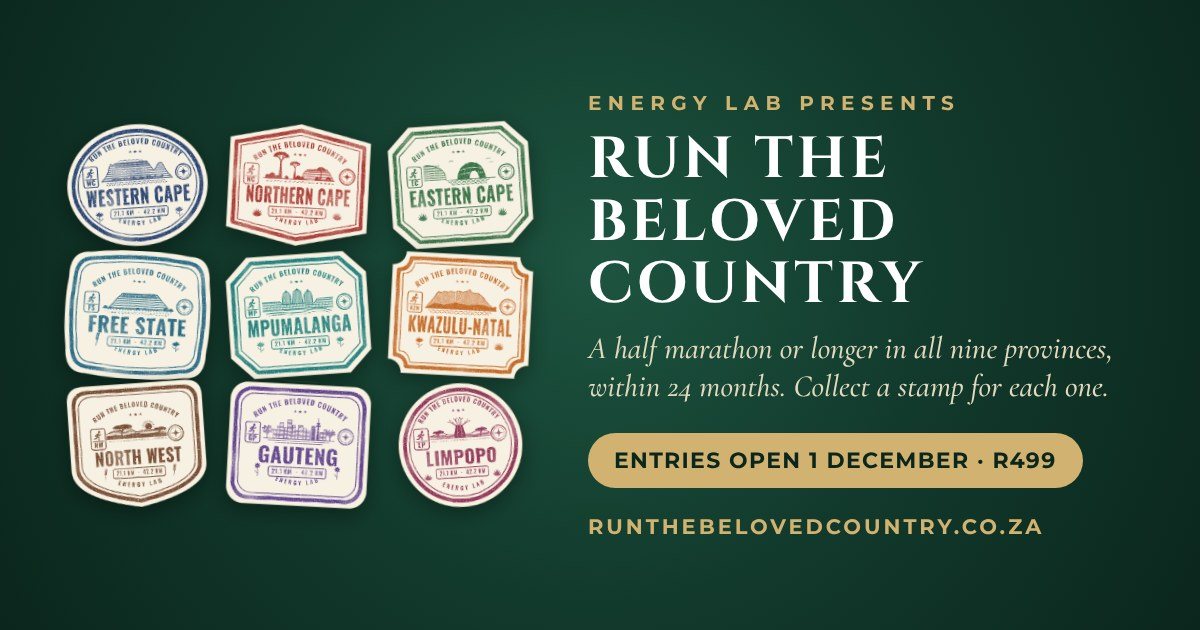
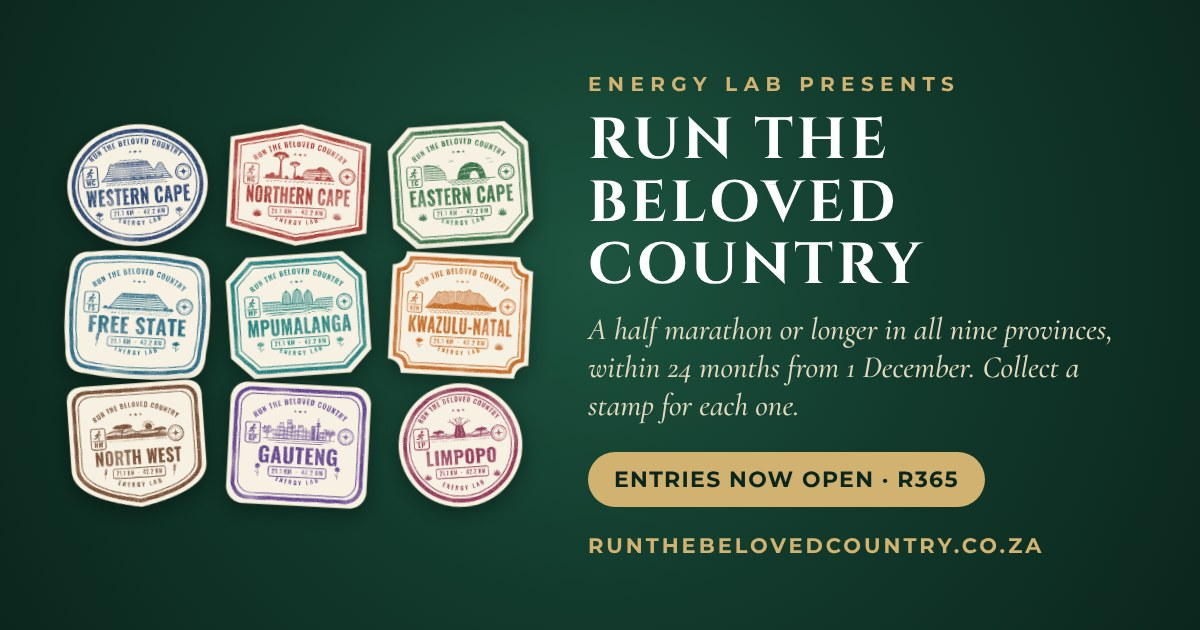
Open entries early (passports valid from 1 Dec 2026) (#10)
* Open entries early; passports bought before launch are dated 1 Dec 2026

- rtbc_activate_passport: issued_at = greatest(now(), 1 Dec 2026 SAST), expiry
  24 months from that. Drives the identity page, expiry and the proof form's
  earliest race date. Existing passports unchanged.
- Site: 'Enter now' replaces 'Register interest' as the main button; FAQ,
  Terms 3.3 and Rules explain the 1 December start; interest form becomes
  'Get Challenge news'
- Entry page: note for early entrants (shown only before launch)

Claude-Session: https://claude.ai/code/session_014kwbh6nvEBk41pb5qy1hRH

* Launch date at midnight UTC so the date reads 1 Dec everywhere

Claude-Session: https://claude.ai/code/session_014kwbh6nvEBk41pb5qy1hRH

* Link preview image: entries now open

Claude-Session: https://claude.ai/code/session_014kwbh6nvEBk41pb5qy1hRH

* Entry fee R365 (was R499)

Site, Terms 4.1, Rules, Privacy wording, Meta Pixel purchase value and the
link preview image. The checkout amount comes from RTBC_ENTRY_FEE_CENTS.

Claude-Session: https://claude.ai/code/session_014kwbh6nvEBk41pb5qy1hRH

---------

Changed region(s): [[0.4933, 0.5127, 0.925, 0.9048], [0.4933, 0.1206, 0.8017, 0.4825]]

diff --git a/landing/index.html b/landing/index.html
@@ -10,7 +10,7 @@
 <meta property="og:image" content="https://runthebelovedcountry.co.za/img/og.jpg">
 <meta property="og:image:width" content="1200">
 <meta property="og:image:height" content="630">
-<meta property="og:image:alt" content="The nine Run the Beloved Country province stamps. Entries open 1 December, R499.">
+<meta property="og:image:alt" content="The nine Run the Beloved Country province stamps. Entries open now, R365.">
 <meta property="og:url" content="https://runthebelovedcountry.co.za/">
 <meta name="twitter:card" content="summary_large_image">
 <meta property="og:type" content="website">
@@ -239,7 +239,7 @@ footer p { max-width: 60ch; }
       <li><a href="#faq">FAQ</a></li>
     </ul>
     <a class="btn btn-ghost" href="/app/">Sign in</a>
-    <a class="btn btn-solid" href="#register">Register interest</a>
+    <a class="btn btn-solid" href="/app/enter">Enter now</a>
   </div>
 </nav>
 
@@ -251,9 +251,10 @@ footer p { max-width: 60ch; }
     <p class="strap">9 Provinces. 9 Races. One Beloved Country.</p>
     <p class="sub">Run one officially timed half marathon or marathon in every province of South Africa, and collect each province’s stamp in your own race passport.</p>
     <div class="ctas">
-      <a class="btn btn-solid" href="#register">Register your interest</a>
+      <a class="btn btn-solid" href="/app/enter">Enter now · R365</a>
       <a class="btn btn-ghost" href="#how">How it works</a>
     </div>
+    <p class="sub" style="margin-top:14px;font-size:15px">Entries are open. Passports are valid from 1 December 2026: enter early and your 24 months start on launch day.</p>
     <div class="stores"><a class="store-badge " href="https://apps.apple.com/app/id6835716723" target="_blank" rel="noopener"><img src="img/app-store-badge.svg" alt="Download Running Passport on the App Store" width="144" height="48"></a><span class="store-badge soon" role="img" aria-label="Google Play: coming soon"><img src="img/google-play-badge.png" alt="" width="161" height="48"><small>Coming soon</small></span></div>
     <a class="beta-link" href="#beta">On Android? Become a beta tester</a>
     <img class="shot" src="img/hero.png" alt="The race passport: green cover beside an open spread with the Western Cape and Eastern Cape stamps applied" width="1600" height="843">
@@ -389,12 +390,12 @@ footer p { max-width: 60ch; }
       <div class="faq">
         <details><summary>Which races count?</summary><p>Any officially timed road half marathon (21.1 km), marathon (42.2 km) or road ultra held in the province, organised by any club or organiser. You choose the races. Trail races, virtual races and shorter distances don’t count.</p></details>
         <details><summary>Can I mix half marathons and marathons?</summary><p>Yes. Any mix of 21.1 and 42.2 km races counts, in any order.</p></details>
-        <details><summary>How long do I have?</summary><p>24 months from the date your passport is issued.</p></details>
+        <details><summary>How long do I have?</summary><p>24 months from the date your passport is issued. If you enter before 1 December 2026, your passport is dated 1 December 2026, so your 24 months start then.</p></details>
         <details><summary>Does my entry include race entries or travel?</summary><p>No. You enter each race directly with its organiser and arrange your own travel and accommodation. Your challenge entry covers your digital passport, result verification and, when you finish, your printed finisher passport.</p></details>
         <details><summary>Does part of my entry go to charity?</summary><p>Yes. R50 of every entry goes to our charity partner, the <a href="https://legacycenter.co.za/" target="_blank" rel="noopener">Binah Legacy Center</a>.</p></details>
         <details><summary>How are results verified?</summary><p>You add your official race result in the app, with a results link or finisher certificate. Once it is checked against the official results, usually within 7 days, that province’s stamp unlocks.</p></details>
         <details><summary>Is the race passport a real passport?</summary><p>No. It is an Energy Lab running challenge collectible, not an official travel or identity document.</p></details>
-        <details><summary>When can I enter?</summary><p>Entries open soon. Register your interest below and we’ll let you know first.</p></details>
+        <details><summary>When can I enter?</summary><p>Right now. <a href="/app/enter">Enter here</a>. Passports are valid from 1 December 2026, so races from that date count, and anyone who enters before then has a passport dated 1 December 2026.</p></details>
       </div>
     </div>
   </section>
@@ -402,9 +403,9 @@ footer p { max-width: 60ch; }
   <section class="cream" id="register">
     <div class="wrap register">
       <div class="head" style="margin: 0">
-        <span class="eyebrow">Be the first to know</span>
-        <h2>Register your interest</h2>
-        <p>Leave your details and we’ll email you when entries open. No payment, no commitment.</p>
+        <span class="eyebrow">Not ready to enter yet?</span>
+        <h2>Get Challenge news</h2>
+        <p>Leave your details and we’ll keep you posted on race news and partner offers. No payment, no commitment. Ready now? <a href="/app/enter">Enter here</a>.</p>
       </div>
       <form id='interest-form' method='POST' name='rtbc-interest' data-netlify='true' netlify-honeypot='bot-field'>
         <input type="hidden" name="form-name" value="rtbc-interest">
@@ -429,7 +430,7 @@ footer p { max-width: 60ch; }
           </label>
         </div>
         <label class="check" for="f-consent"><input id="f-consent" name="consent" type="checkbox" value="yes" required>I agree that Energy Lab Athletic Company may email me about Run the Beloved Country. I can unsubscribe at any time.</label>
-        <button class="btn btn-solid" type="submit" id="f-submit">Register interest</button>
+        <button class="btn btn-solid" type="submit" id="f-submit">Keep me posted</button>
         <p class="form-msg" id="form-msg" role="status" aria-live="polite"></p>
       </form>
     </div>
@@ -469,7 +470,7 @@ footer p { max-width: 60ch; }
         if (!r.ok) throw new Error(r.status);
         form.reset();
         msg.className = 'form-msg ok';
-        msg.textContent = 'Thanks, you’re on the list. We’ll email you when entries open.';
+        msg.textContent = 'Thanks, you’re on the list. We’ll keep you posted.';
       })
       .catch(function () {
         msg.className = 'form-msg err';

diff --git a/landing/terms/index.html b/landing/terms/index.html
@@ -63,14 +63,14 @@ footer a { color: var(--gold); }
     <h2>3. Challenge rules</h2>
     <p>3.1 <strong>Goal.</strong> To complete the Challenge you must finish one qualifying race in each of South Africa’s nine provinces within your Challenge Window.</p>
     <p>3.2 <strong>Qualifying race.</strong> An officially timed road race of 21.1 km (half marathon), 42.2 km (marathon) or longer (road ultra-marathon), organised by any race organiser and run on or after the date your passport is issued. Trail races, virtual races, time trials and races shorter than 21.1 km do not qualify. A race counts for the province it is listed under on RunningCalendar.co.za, as shown in the race finder. A race not listed there counts for the province of its official start venue. Races outside South Africa do not qualify.</p>
-    <p>3.3 <strong>Challenge Window.</strong> 24 months from the date your passport is issued, as shown in your passport. You may extend your Challenge Window once, by up to six months. The extension is free if injury or illness stops you finishing in time, supported by a note from a medical practitioner; otherwise it costs R250.</p>
+    <p>3.3 <strong>Challenge Window.</strong> 24 months from the date your passport is issued, as shown in your passport. Entries made before 1 December 2026 are issued with that date, so their Challenge Window, and the races that count, start on 1 December 2026. You may extend your Challenge Window once, by up to six months. The extension is free if injury or illness stops you finishing in time, supported by a note from a medical practitioner; otherwise it costs R250.</p>
     <p>3.4 <strong>Verification.</strong> For each province you must complete the proof form on the website or in the Running Passport app (race, date, distance and finish time) and provide proof of your finish, being a link to the official race results or an official finisher certificate, within 30 days of the race. Results recorded only on a GPS watch or app are not accepted. Each province counts once, and our decision on whether a result qualifies is final, subject to clause 12. We check each submission against the race listing and your proof, partly with automated checks. Submissions that match are approved automatically; any that do not are reviewed by a person, and no result is rejected without a person reviewing it. We aim to complete checks within 7 days.</p>
     <p>3.5 <strong>Stamps.</strong> Your passport is digital. Each province stamp appears in it once that province is verified, and your finisher stamp appears when all nine are verified.</p>
     <p>3.6 <strong>Fair play.</strong> Running for someone else, submitting false results or altering a result will lead to disqualification from the Challenge without a refund.</p>
     <p>3.7 <strong>Cancelled or changed races.</strong> If a race is cancelled, or shortened by its organiser for any reason, it does not count, and you will need to run another qualifying race in that province.</p>
 
     <h2>4. Fees, payment, cancellation and transfers</h2>
-    <p>4.1 <strong>Entry fee.</strong> The entry fee is R499, including delivery of your printed finisher passport within South Africa. All prices are in rand. Energy Lab is not registered for VAT, so no VAT is charged. R50 of every entry fee is donated to our charity partner, the Binah Legacy Center.</p>
+    <p>4.1 <strong>Entry fee.</strong> The entry fee is R365, including delivery of your printed finisher passport within South Africa. All prices are in rand. Energy Lab is not registered for VAT, so no VAT is charged. R50 of every entry fee is donated to our charity partner, the Binah Legacy Center.</p>
     <p>4.2 <strong>What the fee covers.</strong> Your numbered digital race passport, result verification for all nine provinces, use of the Running Passport app and, if you finish, your printed finisher passport. It does <strong>not</strong> cover race entry fees, travel, accommodation, licences or anything you need to take part in a race.</p>
     <p>4.3 <strong>Payment.</strong> Payment is made online through PayFast. Your entry is confirmed, and your passport issued, as soon as PayFast confirms your payment.</p>
     <p>4.4 <strong>Cooling-off.</strong> You may cancel your entry without giving a reason within 7 days of entering, under section 44 of the Electronic Communications and Transactions Act. Email <a href="mailto:support@energylabapp.co.za">support@energylabapp.co.za</a> and we will refund the entry fee in full within 30 days. Once you have submitted a result for verification, you have asked us to start providing the service and the cooling-off right no longer applies.</p>

diff --git a/landing/privacy/index.html b/landing/privacy/index.html
@@ -68,7 +68,7 @@ footer a { color: var(--gold); }
       <tr><td>Delivery details (name, phone, chosen pickup point)</td><td>Only if you finish and order a printed finisher passport</td><td>To deliver it</td><td>Contract</td></tr>
       <tr><td>Leaderboard details (first name, surname initial, progress)</td><td>Only if you opt in</td><td>To show public progress on the finisher wall</td><td>Your consent</td></tr>
       <tr><td>Device, browser and IP address</td><td>When you use the website or app</td><td>Security, spam prevention and fixing problems</td><td>Our legitimate interest</td></tr>
-      <tr><td>Pages you visit on our website, whether you start or complete an entry (with the R499 amount), browser and IP address, and Meta cookies</td><td>When you use the website (not the app)</td><td>To measure and improve our adverts on Facebook and Instagram, see below</td><td>Our legitimate interest</td></tr>
+      <tr><td>Pages you visit on our website, whether you start or complete an entry (with the entry amount), browser and IP address, and Meta cookies</td><td>When you use the website (not the app)</td><td>To measure and improve our adverts on Facebook and Instagram, see below</td><td>Our legitimate interest</td></tr>
     </table></div>
     <p>We do not ask for your ID number, and we do not collect health information.</p>
     <p><strong>The app on your phone.</strong> The Running Passport app uses your camera or photo library only when you choose to add a photo or proof. It keeps a copy of your passport and stamps on your phone so you can open it without signal; signing out or deleting the app removes that copy. The app has no advertising and no third-party tracking.</p>

diff --git a/landing/rules/index.html b/landing/rules/index.html
@@ -72,12 +72,13 @@ footer a { color: var(--gold); }
     <h2>Your 24 months</h2>
     <ul>
       <li>Your Challenge Window starts the day your passport is issued and runs for 24 months.</li>
+      <li>Entering before 1 December 2026? Your passport is dated 1 December 2026, so your 24 months, and the races that count, start then.</li>
       <li>You can extend once, by up to six months: free if injury or illness held you up (with a doctor’s note), otherwise R250.</li>
     </ul>
 
     <h2>Entry</h2>
     <ul>
-      <li>R499, of which R50 goes to the Binah Legacy Center. Your passport is issued as soon as payment is confirmed.</li>
+      <li>R365, of which R50 goes to the Binah Legacy Center. Your passport is issued as soon as payment is confirmed.</li>
       <li>Open to runners 18 and older, and 16–17-year-olds with a parent or guardian’s consent.</li>
       <li>Entries are personal and can’t be transferred. You can cancel within 7 days of entering for a full refund, as long as you haven’t submitted a result yet.</li>
       <li>Your entry doesn’t include race entries, travel or accommodation.</li>

diff --git a/src/pages/Enter.jsx b/src/pages/Enter.jsx
@@ -1,4 +1,5 @@
 import { trackCheckout } from '../lib/metaPixel.js'
+import { beforeLaunch, LAUNCH_LABEL } from '../lib/launch.js'
 import { useEffect, useState } from 'react'
 import { Link, Navigate } from 'react-router-dom'
 import { useApp } from '../App.jsx'
@@ -115,6 +116,9 @@ export default function Enter() {
         {error && <div className="error">{error}</div>}
         <button className="btn block" style={{ marginTop: 10 }} disabled={busy}>{busy ? 'Opening PayFast…' : 'Continue to payment'}</button>
         <p className="hint center" style={{ marginTop: 10 }}>Secure payment by PayFast. Your passport is issued the moment payment is confirmed.</p>
+        {beforeLaunch() && (
+          <p className="hint center" style={{ marginTop: 6 }}><strong>Entering early?</strong> Passports bought before {LAUNCH_LABEL} are dated {LAUNCH_LABEL}, so your 24 months, and the races that count, start then.</p>
+        )}
       </form>
       <p className="center small"><Link to="/">Back</Link></p>
     </>

diff --git a/src/lib/launch.js b/src/lib/launch.js
@@ -1,0 +1,7 @@
+// Launch day (Russell, 23 Nov 2026): entries are open early, but passports bought before
+// launch are dated 1 December 2026, so the 24 months and qualifying races start then.
+// The database sets the real date (supabase/migrations/20261123_rtbc_launch_date.sql);
+// this only drives the wording shown before launch.
+export const LAUNCH_DATE = '2026-12-01'
+export const LAUNCH_LABEL = '1 December 2026'
+export const beforeLaunch = (now = new Date()) => now < new Date(`${LAUNCH_DATE}T00:00:00+02:00`)

diff --git a/src/lib/metaPixel.js b/src/lib/metaPixel.js
@@ -29,7 +29,7 @@ export function track(event, params) {
   try { load()('track', event, params) } catch { /* never let tracking break the page */ }
 }
 
-const ENTRY = { value: 499, currency: 'ZAR' }
+const ENTRY = { value: 365, currency: 'ZAR' }
 
 /** On app start: a page view, and a Purchase when PayFast sends the runner back after paying. */
 export function initPixel() {
